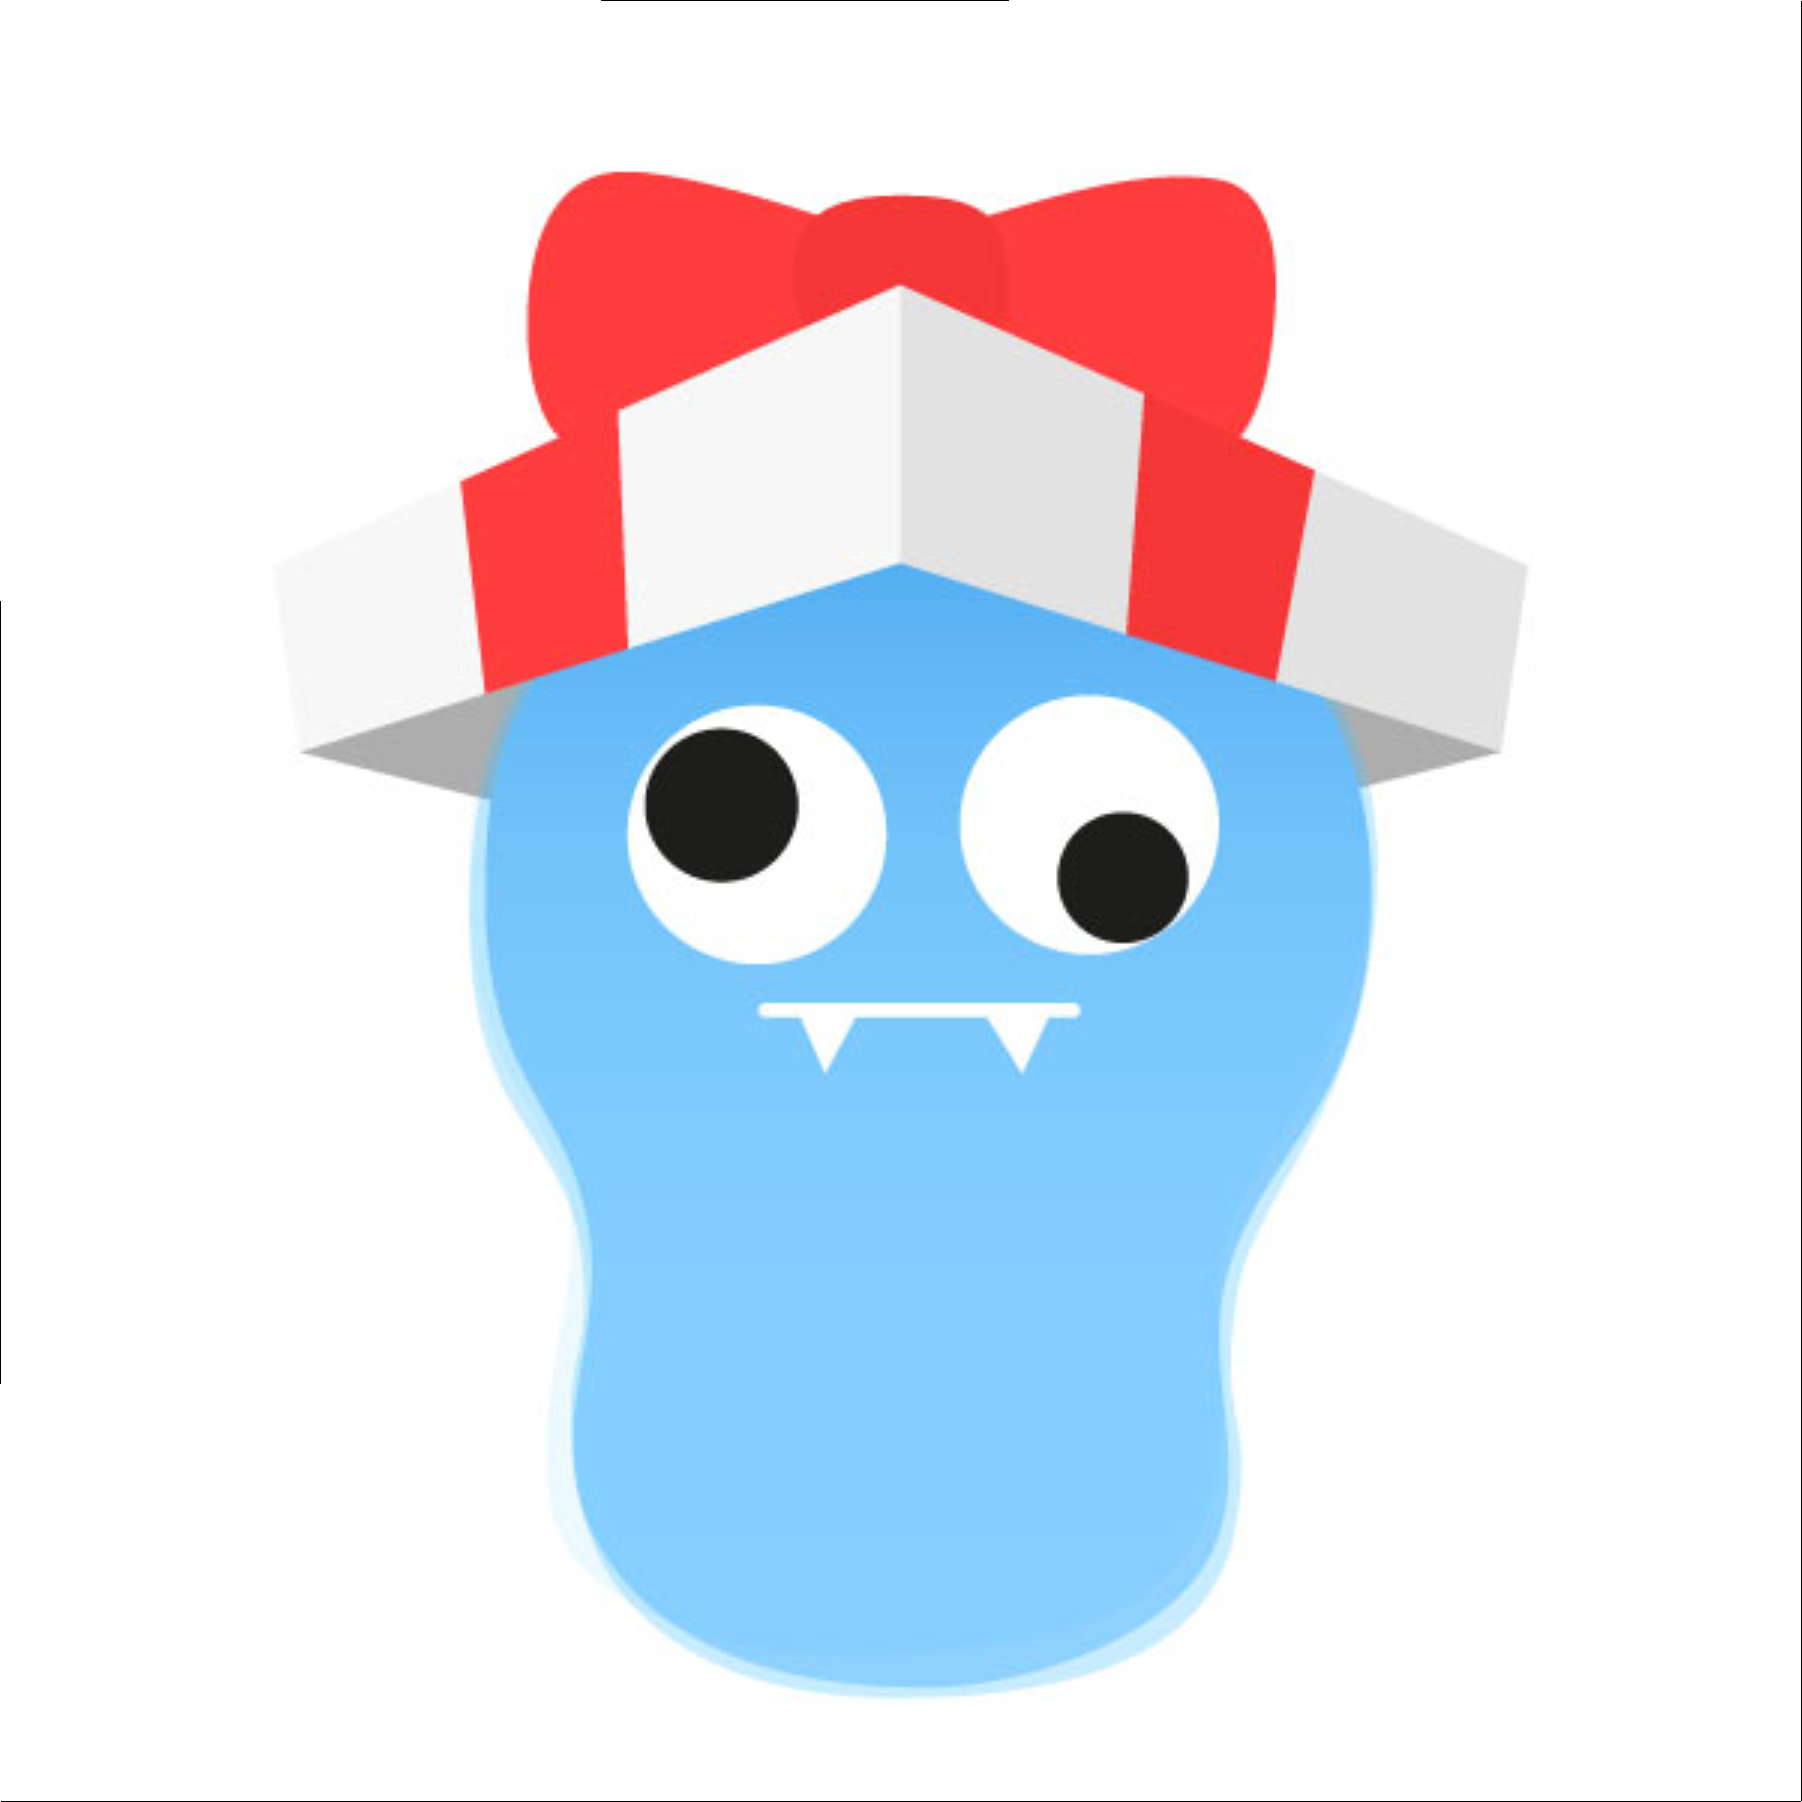
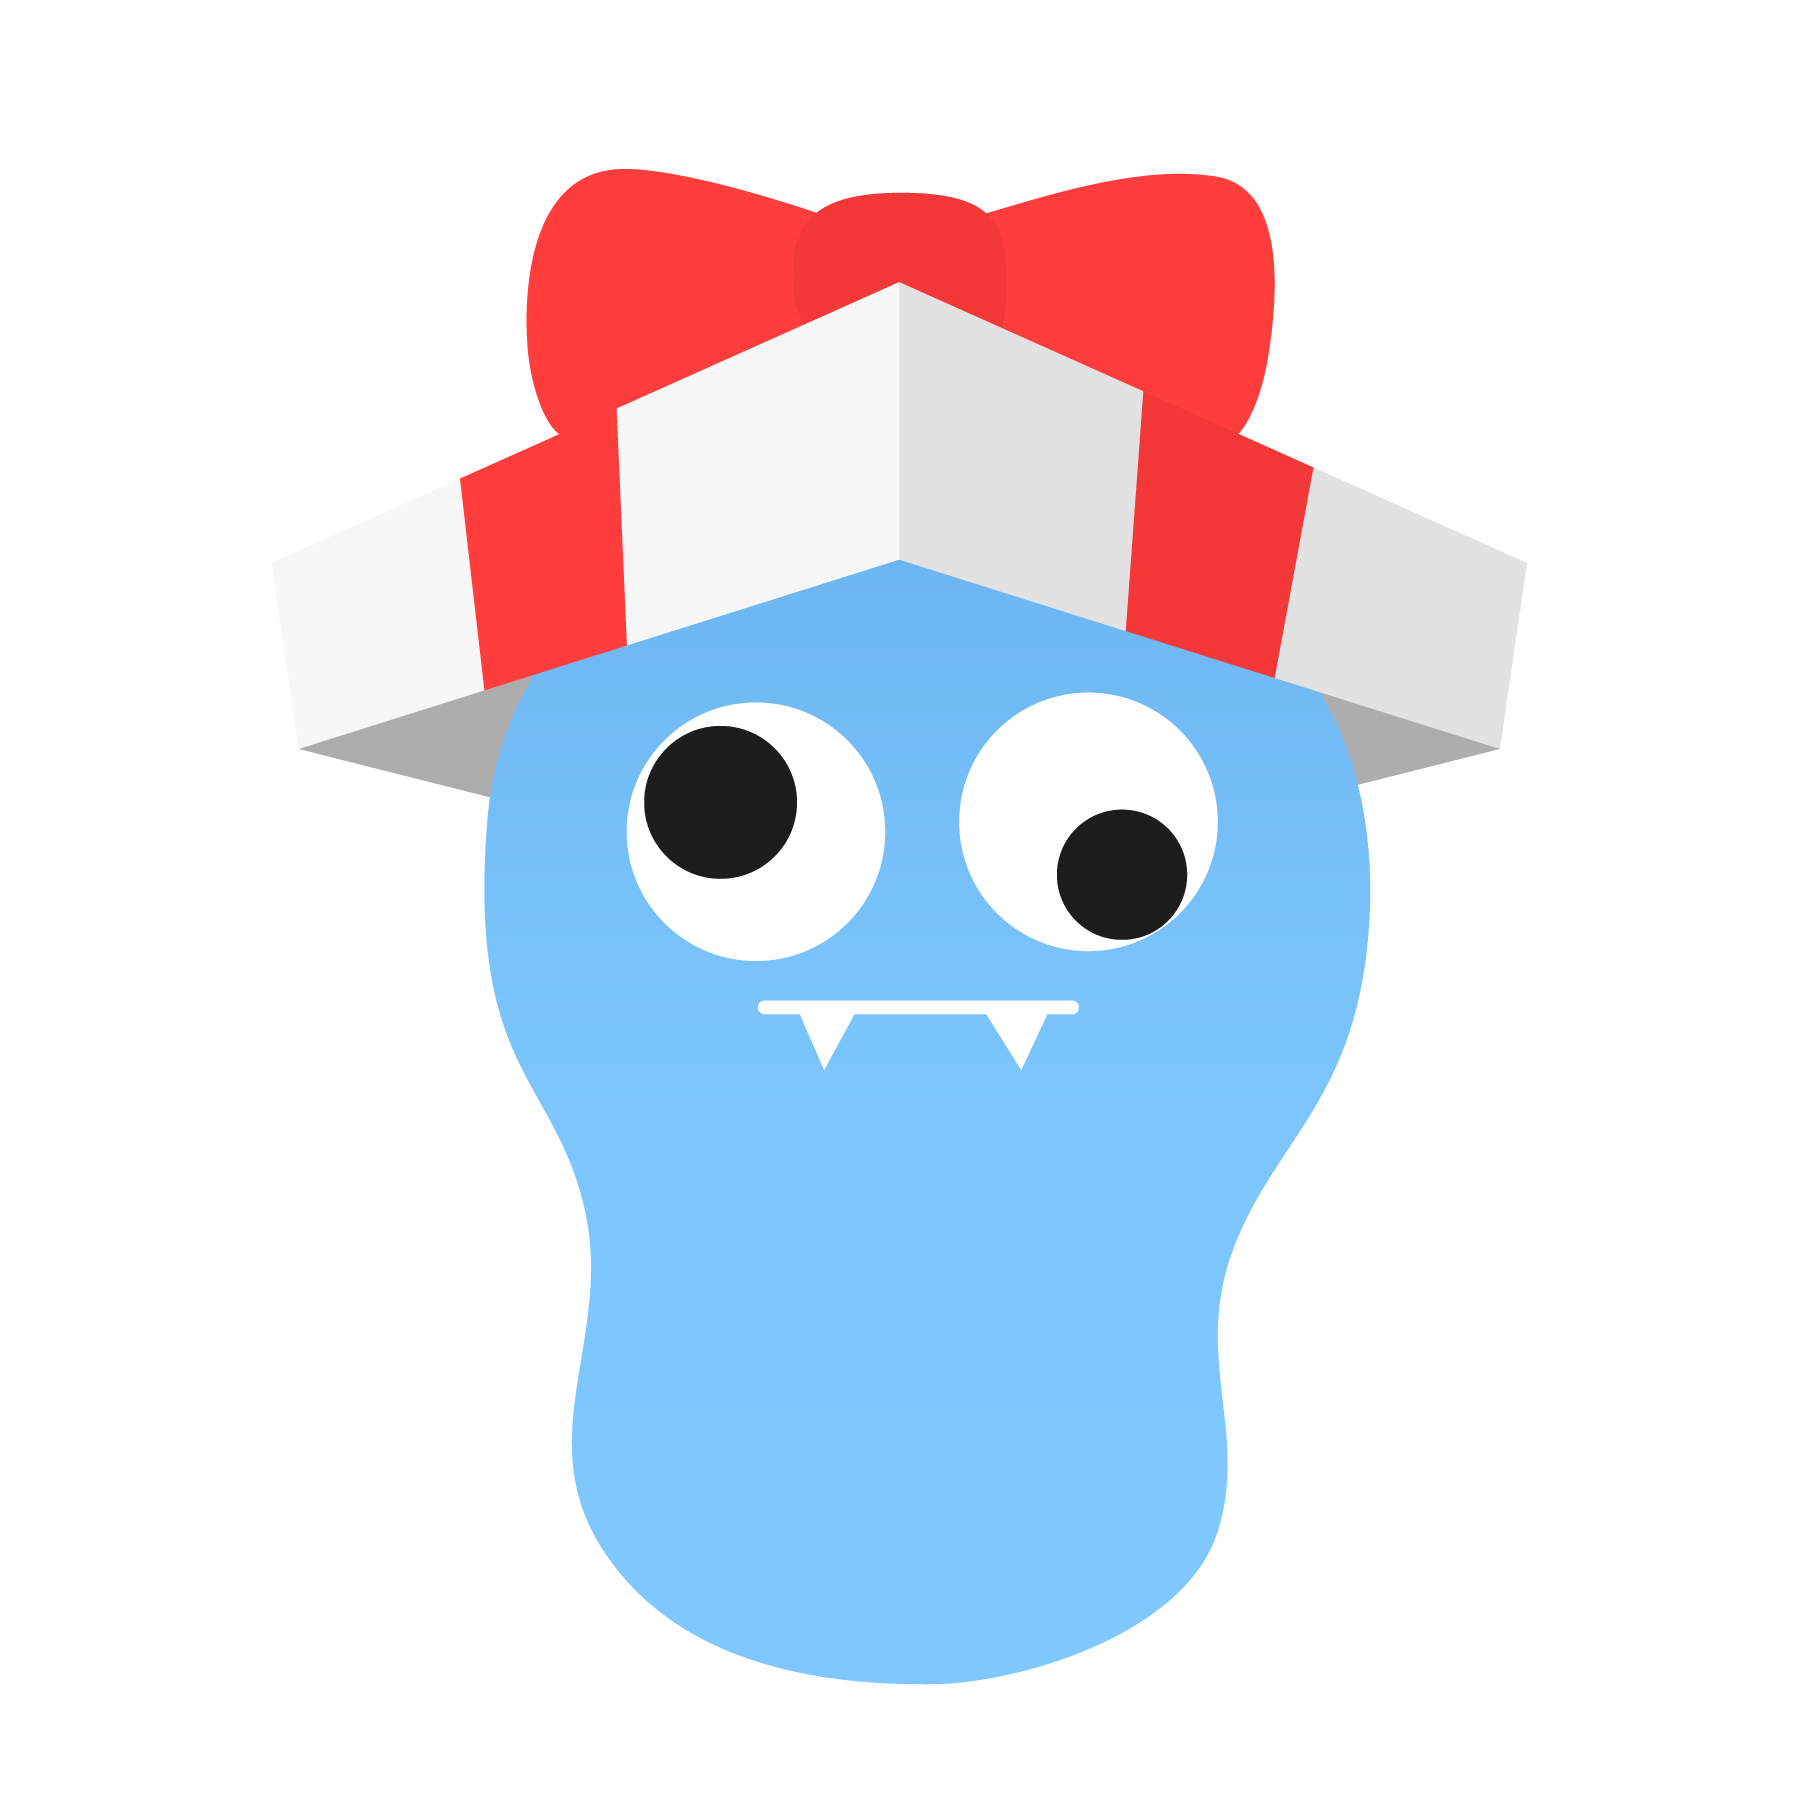
Apply fonts to search page

diff --git a/src/components/molecules/MonsterNotice.tsx b/src/components/molecules/MonsterNotice.tsx
@@ -1,11 +1,13 @@
 import UnboxingMonster from '@components/atoms/icon/UnboxingMonster'
 import Bold from '@components/atoms/typography/Bold'
+import { COLORS } from '@constants/colors'
 import { scale, verticalScale } from '@constants/figure'
 import React from 'react'
 import {
   View,
   StyleSheet,
   ViewStyle,
+  Text,
 } from 'react-native'
 
 interface Props {
@@ -18,9 +20,9 @@ const MonsterNotice = (props: Props) => {
     <View style={[styles.container, props.style]}>
       <UnboxingMonster />
 
-      <Bold style={styles.emptyText}>
+      <Text style={styles.emptyText}>
         {props.notice || ''}
-      </Bold>
+      </Text>
     </View>
   )
 }
@@ -33,7 +35,11 @@ const styles = StyleSheet.create({
     alignItems: 'center',
   },
   emptyText: {
-    fontSize: scale(13),
-    marginTop: scale(10),
+    fontSize: 13,
+    marginTop: 10,
+    fontFamily: 'NotoSansCJKkr-Medium',
+    // color: COLORS.bold_black,
+    color: '#4F4F4F',
+    lineHeight: 20,
   }
 })

diff --git a/src/components/templates/SearchTemplate.tsx b/src/components/templates/SearchTemplate.tsx
@@ -88,9 +88,11 @@ const styles = StyleSheet.create({
     backgroundColor: 'white',
   },
   title: {
-    fontWeight: '700',
-    fontSize: scale(16),
-    marginTop: verticalScale(26),
+    fontFamily: 'NotoSansCJKkr-Bold',
+    fontSize: 16,
+    letterSpacing: -0.44,
+    lineHeight: 26,
+    marginTop: 26,
     marginHorizontal: scale(24),
     marginBottom: verticalScale(12),
   },

diff --git a/src/components/organisms/header/HeaderWhileSearching.tsx b/src/components/organisms/header/HeaderWhileSearching.tsx
@@ -78,7 +78,8 @@ const styles = StyleSheet.create({
   },
   cancelText: {
     fontSize: 14,
-    fontWeight: 'bold',
+    fontFamily: 'NotoSansCJKkr-Medium',
+    letterSpacing: -0.35,
   },
   searchBar: {
     backgroundColor: '#f9f9f9',

diff --git a/src/components/atoms/icon/UnboxingMonster.tsx b/src/components/atoms/icon/UnboxingMonster.tsx
@@ -20,8 +20,8 @@ export default UnboxingMonster
 
 const styles = StyleSheet.create({
   image: {
-    width: scale(120),
-    height: scale(120),
+    width: 110,
+    height: 110,
     resizeMode: 'contain',
   }
 })
